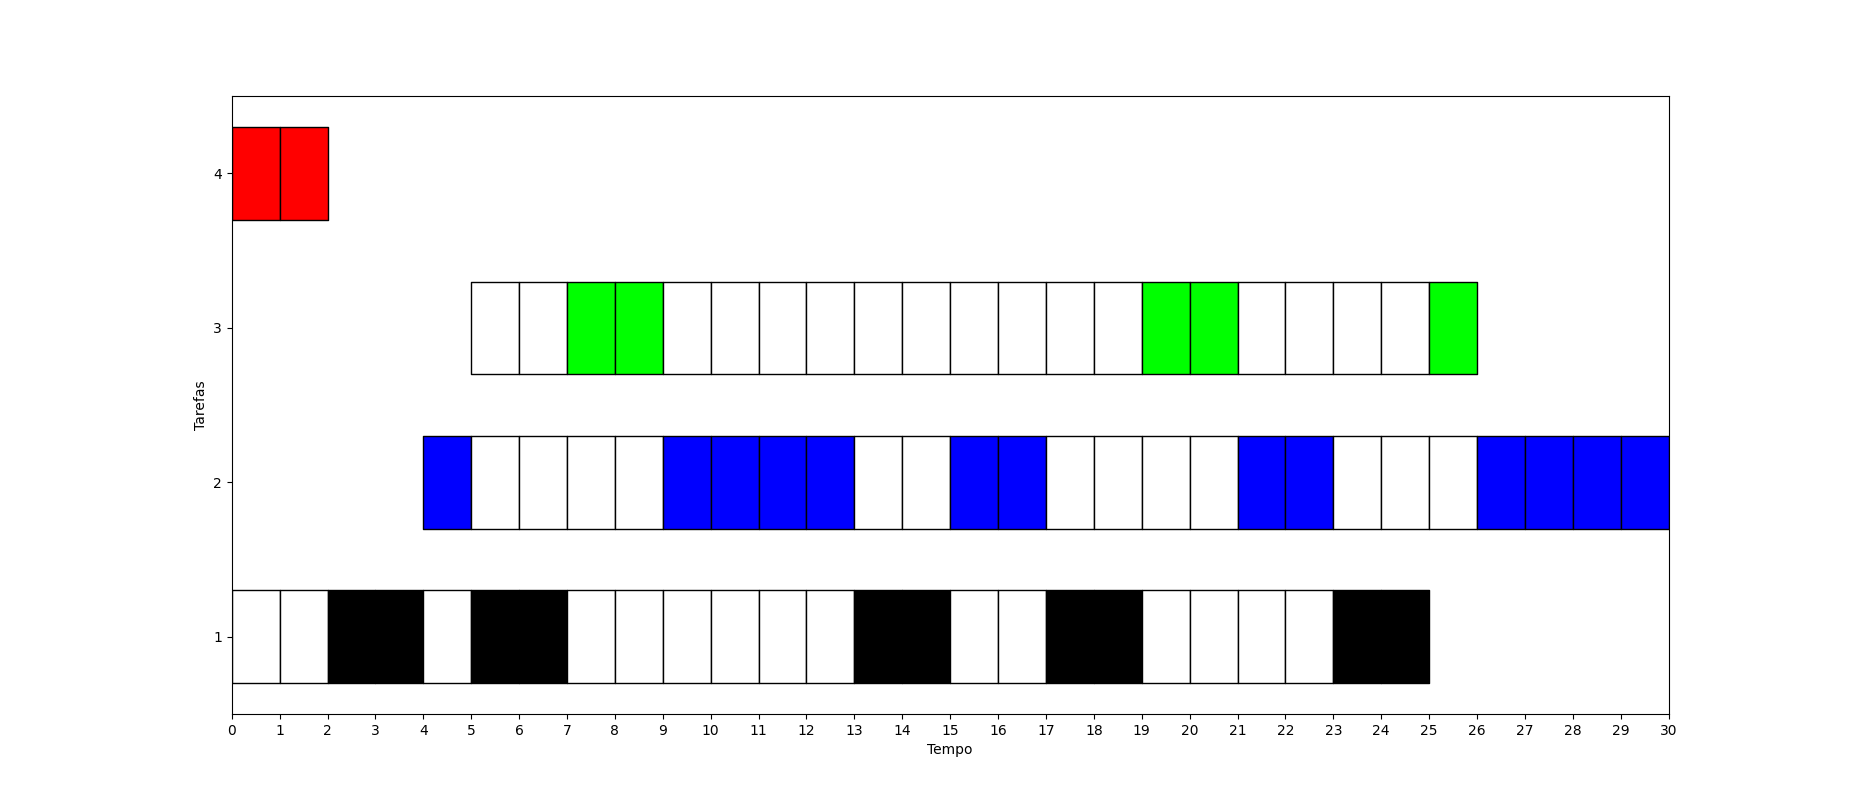
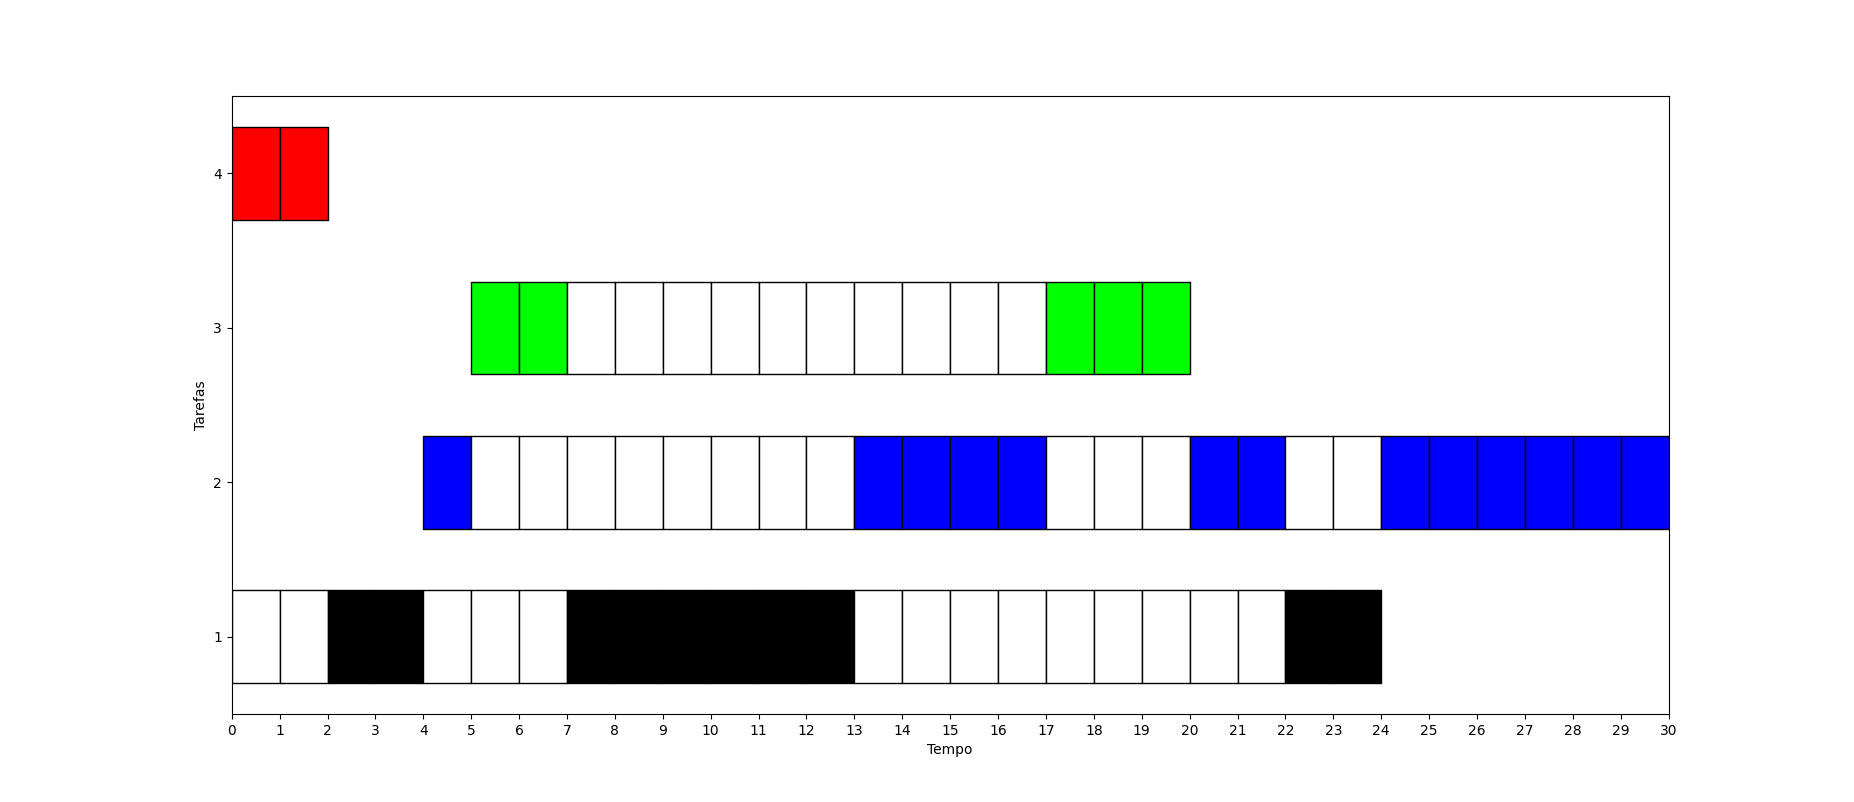
Criar mutex para prio preemp envelhecimento

diff --git a/Escalonador.py b/Escalonador.py
@@ -119,7 +119,6 @@ class Escalonador:
 
         if (self.quantum_restante <= 0):       # Verifica se acabou o quantum para preemptar
             self.preempcao = True
-            self.resetar_quantum()
 
         # Caso tenha preempção
         if (self.preempcao): 
@@ -141,8 +140,8 @@ class Escalonador:
     
     # Simula Prio Preemp
     def prio_preemp(self):
-        self.resetar_tarefas()
         self.preempcao = self.append_nova_tarefa()  # Verifica se há nova tarefa para preemptar
+        houve_heranca_prioridades = False
         if self.prox_preempcao:
             self.preempcao = True
             self.prox_preempcao = False
@@ -176,24 +175,30 @@ class Escalonador:
 
         mutex = self.processador.verificar_mutex(self.lista_mutex)
         if mutex:
+            tarefa_trocada = self.processador
             self.processador = self.processador.tratar_heranca_prioridade(mutex)
+            houve_heranca_prioridades = True
+
 
         self.processador.decrementar_duracao(self.lista_mutex)
         self.quantum_restante -= 1
+
+        # Inverte novamente prioridades caso houve herança
+        if houve_heranca_prioridades:
+            self.processador.inverter_prioridades(tarefa_trocada)
 
         return self.processador
     
     def prio_preemp_envelhecimento(self):
         self.preempcao = self.append_nova_tarefa()  # Verifica se há nova tarefa para preemptar
+        houve_heranca_prioridade = False
         if self.prox_preempcao:
             self.prox_preempcao = False
             self.preempcao = True
         tarefaIO = self.verificar_IO_tarefas()
         self.tempo += 1
-        self.quantum_restante -= 1
         if tarefaIO:
             self.prox_preempcao = True
-            self.resetar_quantum()
             return tarefaIO
 
         if self.quantum_restante <= 0:
@@ -211,20 +216,29 @@ class Escalonador:
         # Caso há preempção
         if (self.preempcao):
             self.resetar_quantum()
-            self.quantum_restante = self.quantum
-            temp = self.tarefas_prontas[0]
+            self.processador = self.tarefas_prontas[0]
             for tarefa in self.tarefas_prontas:                 # Verifica qual tarefa tem maior prioridade na lista de prontas
-                if (tarefa.prioridade_dinamica > temp.prioridade_dinamica):
-                    temp = tarefa
-            for tarefa in self.tarefas_prontas:
-                if tarefa == temp:
-                    tarefa.prioridade_dinamica = tarefa.prioridade
+                if (tarefa.prioridade_dinamica > self.processador.prioridade_dinamica):
                     self.processador = tarefa
-                else:
-                    tarefa.prioridade_dinamica += self.alpha
+            
+        mutex = self.processador.verificar_mutex(self.lista_mutex)
+        if mutex:
+            tarefa_trocada = self.processador
+            self.processador = self.processador.tratar_heranca_prioridade(mutex)
+            houve_heranca_prioridade = True
 
-        self.processador.decrementar_duracao()
+        for tarefa in self.tarefas_prontas:
+            if tarefa != self.processador:
+                tarefa.prioridade_dinamica += self.alpha
+
+        self.processador.decrementar_duracao(self.lista_mutex)
         self.quantum_restante -= 1
+
+        if houve_heranca_prioridade:
+            tarefa_trocada.prioridade_dinamica -= self.alpha
+            self.processador.inverter_prioridades(tarefa_trocada)
+        else:
+            self.processador.prioridade_dinamica = self.processador.prioridade
 
         return self.processador
     

diff --git a/Tarefa.py b/Tarefa.py
@@ -13,7 +13,6 @@ class Tarefa:
         self.string_lista_eventos = ";".join(lista_eventos)             # String para mostrar eventos na tela inicial
         self.lista_eventos_mutex = []
         self.lista_eventos_IO = []
-        self.herancaPrioridade = False
         for evento in lista_eventos:                                    # Cria lista de eventos
             tipo = evento[0:2]
             if tipo == "ML":                                            # Se evento for solicitação de mutex cria o evento
@@ -35,6 +34,7 @@ class Tarefa:
 
     # Operação de Lock do Mutex, retorna None se funcionou, e o mutex se ele bloqueou
     def lock(self, evento, lista_mutex):
+        print("locking")
         mutex = None
         id_mutex = evento.id_mutex
         success = True
@@ -43,6 +43,7 @@ class Tarefa:
                 mutex = mu
 
         if (not mutex):                                                             # Cria um novo mutex caso não exista
+            print("Criando Mutex")
             mutex = Mutex(id_mutex)
             lista_mutex.append(mutex)
     
@@ -60,11 +61,7 @@ class Tarefa:
 
 
     def tratar_heranca_prioridade(self, mutex):
-        temp = mutex.tarefa.prioridade_dinamica
-        mutex.tarefa.prioridade_dinamica = self.prioridade_dinamica
-        self.prioridade_dinamica = temp
-        self.herancaPrioridade = True
-        mutex.tarefa.herancaPrioridade = True
+        self.inverter_prioridades(mutex.tarefa)
         return mutex.tarefa
     
     
@@ -89,11 +86,6 @@ class Tarefa:
                     if evento.id_mutex == mutex.id:
                         self.unlock(mutex)
 
-    def reset(self):
-        if (self.herancaPrioridade):
-            self.herancaPrioridade = False
-            self.prioridade_dinamica = self.prioridade
-
     # Verifica e trata eventos IO
     def verificar_IO(self):
         for evento in self.lista_eventos_IO:
@@ -108,3 +100,8 @@ class Tarefa:
         self.duracao -= 1
         self.tempo_decorrido += 1
         self.decrementar_duracao_evento_mutex(lista_mutex)
+
+    def inverter_prioridades(self, tarefa):
+        temp = tarefa.prioridade_dinamica
+        tarefa.prioridade_dinamica = self.prioridade_dinamica
+        self.prioridade_dinamica = temp
